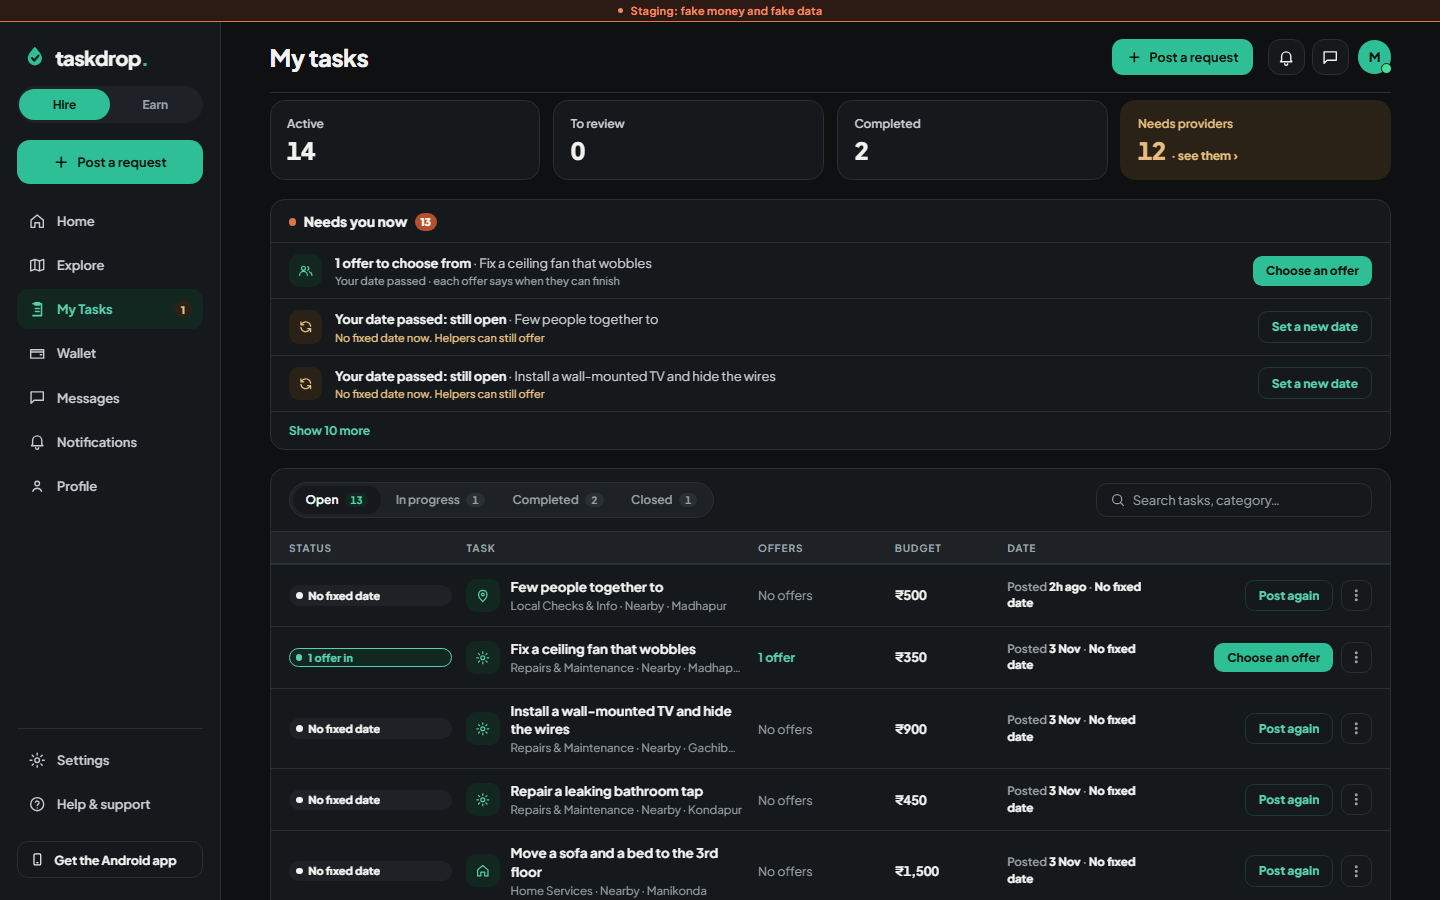
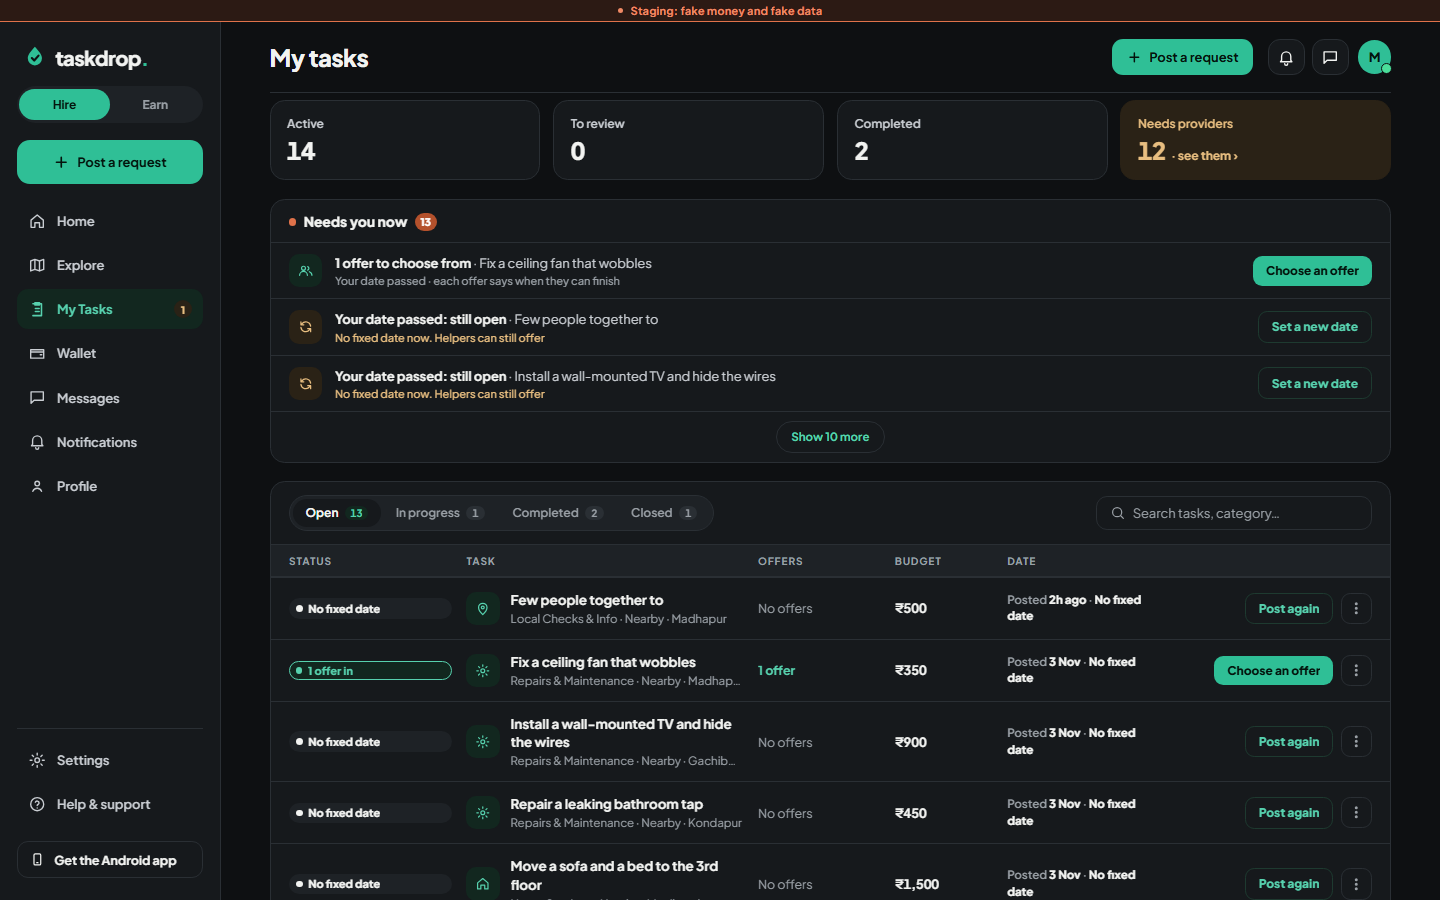
Desktop rules: Notifications at list width, My tasks Show more as a pill
- Notifications (desktop): the list uses the shared list width (FEED_MAX)
  instead of an 880 px centred column, so it no longer leaves ~205 px empty
  on each side at 1440 (desktop rule 4).
- My tasks "Needs you now" (desktop): "Show N more" is a centred pill sized to
  its text, like Home's, instead of a 1120 px full-width row (rule 2).
- Phone and tablet unchanged (pixel guard 33/33). 1440 pictures re-taken for
  the two screens only.

diff --git a/apps/mobile/src/screens/NotificationsScreen.tsx b/apps/mobile/src/screens/NotificationsScreen.tsx
@@ -5,7 +5,7 @@ import { Icon, type IconName } from '../components/Icon';
 import { EmptyState, LoadFailed, Shimmer, TopBar, UnderlineTabs, timeAgo } from '../components/kit';
 import { FadeIn, tx } from '../components/primitives';
 import { useTheme } from '../providers/ThemeProvider';
-import { useLayout } from '../lib/layout';
+import { FEED_MAX, useLayout } from '../lib/layout';
 import { SegmentedTabs } from '../components/ListPage';
 import { CONTENT_INSET } from '../navigation/DesktopPage';
 import { useNav } from '../providers/NavProvider';
@@ -59,8 +59,9 @@ const ICON: Record<string, IconName> = {
  */
 export function NotificationsScreen() {
   const t = useTheme();
-  // Desktop: one card (880 wide, centred) with a divider between rows, the tabs as a segmented control above it,
-  // and the title, subtitle and "Mark all read" in the page header. Everywhere else the screen is drawn as before.
+  // Desktop: one card (the shared list width, FEED_MAX, like the other list pages) with a divider between rows, the
+  // tabs as a segmented control above it, and the title, subtitle and "Mark all read" in the page header.
+  // Everywhere else the screen is drawn as before.
   const { desktop } = useLayout();
   const { back, go } = useNav();
   const { userId, guest } = useAuth();
@@ -231,7 +232,7 @@ export function NotificationsScreen() {
           contentContainerStyle={{ paddingTop: 8, paddingBottom: 28, paddingHorizontal: CONTENT_INSET }}
           refreshControl={refreshControl}
         >
-          <View style={{ width: '100%', maxWidth: 880, alignSelf: 'center' }}>
+          <View style={{ width: '100%', maxWidth: FEED_MAX, alignSelf: 'center' }}>
             <View style={{ marginBottom: 16 }}>
               <SegmentedTabs
                 tabs={[

diff --git a/apps/mobile/src/components/myTasks/NeedsNow.tsx b/apps/mobile/src/components/myTasks/NeedsNow.tsx
@@ -68,7 +68,28 @@ export function NeedsNow({ items, onPick, desktop, side }: { items: Need[]; onPi
       {shown.map((n, i) => (
         <NeedRow key={n.key} need={n} first={i === 0} desktop={desktop} onPress={() => onPick(n)} />
       ))}
-      {hidden > 0 || all ? (
+      {(hidden > 0 || all) && desktop ? (
+        // Desktop: a pill sized to its words, centred under the rows (like Home's "Show N more"), never a full-width bar.
+        <View style={{ borderTopWidth: 1, borderTopColor: t.colors.line, paddingVertical: 10, alignItems: 'center' }}>
+          <Pressable
+            onPress={() => setAll((v) => !v)}
+            accessibilityRole="button"
+            hitSlop={4}
+            style={({ pressed }) => ({
+              alignSelf: 'center',
+              paddingVertical: 8,
+              paddingHorizontal: 16,
+              borderRadius: 999,
+              borderWidth: 1,
+              borderColor: t.colors.line,
+              backgroundColor: t.colors.surface,
+              opacity: pressed ? 0.7 : 1,
+            })}
+          >
+            <RNText style={tx('700', 12.5, t.colors.accentDeep)}>{all ? 'Show fewer' : `Show ${hidden} more`}</RNText>
+          </Pressable>
+        </View>
+      ) : hidden > 0 || all ? (
         <Pressable
           onPress={() => setAll((v) => !v)}
           accessibilityRole="button"
